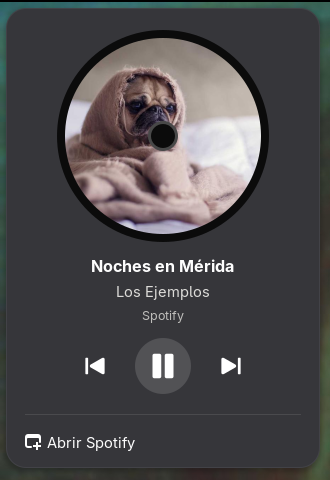
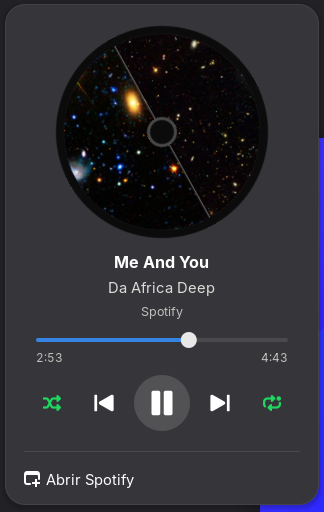
Barra para adelantar o atrasar, aleatorio y repetir
controles.js habla con el reproductor por D-Bus: posición (se pregunta cada
segundo con el menú abierto), SetPosition, Shuffle y LoopStatus.

Claude-Session: https://claude.ai/code/session_017jxsRxmBe3WPs1qnuJv5iV

diff --git a/extension/extension.js b/extension/extension.js
@@ -1,9 +1,11 @@
 // Disco: en la barra de arriba, la portada de lo que está sonando. Si es música (Spotify, YouTube
 // Music…) se ve como un disco que gira mientras suena; si es un video, como una miniatura quieta.
-// Al picarle: portada grande, canción, artista y los botones de anterior, pausa y siguiente.
+// Al picarle: portada grande, canción, artista, la barra para adelantar o atrasar y los botones de
+// aleatorio, anterior, pausa, siguiente y repetir.
 
 import Clutter from 'gi://Clutter';
 import Gio from 'gi://Gio';
+import GLib from 'gi://GLib';
 import GObject from 'gi://GObject';
 import Pango from 'gi://Pango';
 import St from 'gi://St';
@@ -12,11 +14,16 @@ import {Extension} from 'resource:///org/gnome/shell/extensions/extension.js';
 import * as Main from 'resource:///org/gnome/shell/ui/main.js';
 import * as PanelMenu from 'resource:///org/gnome/shell/ui/panelMenu.js';
 import * as PopupMenu from 'resource:///org/gnome/shell/ui/popupMenu.js';
+import {Slider} from 'resource:///org/gnome/shell/ui/slider.js';
+
+import {escribir, irA, leer, pista, SIGUIENTE_REPETIR, tiempo} from './controles.js';
 
 import {abortar, portadaLocal} from './portadas.js';
 import {describir, Reproductores} from './reproductores.js';
 
 const VUELTA = 5000; // ms por vuelta del disco
+const REVISAR_POSICION = 1000; // ms, solo con el menú abierto
+const ESPERA_SALTO = 300; // ms: al mover la barra con teclado o rueda, salta cuando dejas de moverla
 
 // Portada redonda (disco con agujero) o rectangular (video). Gira con girar(true/false).
 const Portada = GObject.registerClass(
@@ -68,8 +75,9 @@ class Portada extends St.Widget {
 });
 
 function boton(icono, nombre, clase, alPulsar) {
+    const tam = {'disco-boton-play': 28, 'disco-boton-modo': 18}[clase] ?? 22;
     const b = new St.Button({style_class: `disco-boton ${clase}`, can_focus: true, accessible_name: nombre,
-        child: new St.Icon({icon_name: icono, icon_size: clase === 'disco-boton-play' ? 28 : 22})});
+        child: new St.Icon({icon_name: icono, icon_size: tam})});
     b.connect('clicked', alPulsar);
     return b;
 }
@@ -95,13 +103,49 @@ class Indicador extends PanelMenu.Button {
         this._titulo = etiqueta('disco-titulo');
         this._artista = etiqueta('disco-artista');
         this._app = etiqueta('disco-app');
+        // Barra de la canción con el tiempo transcurrido y el total.
+        this._progreso = new St.BoxLayout({orientation: Clutter.Orientation.VERTICAL, style_class: 'disco-progreso', x_expand: true});
+        this._barra = new Slider(0);
+        this._barra.accessible_name = 'Posición de la canción';
+        const tiempos = new St.BoxLayout({x_expand: true});
+        this._transcurrido = new St.Label({style_class: 'disco-tiempo', text: '0:00'});
+        this._total = new St.Label({style_class: 'disco-tiempo', text: '0:00', x_expand: true, x_align: Clutter.ActorAlign.END});
+        tiempos.add_child(this._transcurrido);
+        tiempos.add_child(this._total);
+        this._progreso.add_child(this._barra);
+        this._progreso.add_child(tiempos);
+        this._arrastrando = false;
+        this._poniendo = false;
+        this._barra.connect('drag-begin', () => {
+            this._arrastrando = true;
+        });
+        this._barra.connect('drag-end', () => {
+            this._arrastrando = false;
+            this._saltar();
+        });
+        this._barra.connect('notify::value', () => {
+            const {largo} = this._actual ? pista(this._actual) : {largo: 0};
+            this._transcurrido.text = tiempo(this._barra.value * largo);
+            if (!this._poniendo && !this._arrastrando)
+                this._saltarLuego(); // teclado o rueda del ratón
+        });
+
         const controles = new St.BoxLayout({style_class: 'disco-controles', x_align: Clutter.ActorAlign.CENTER});
+        this._aleatorio = boton('media-playlist-shuffle-symbolic', 'Aleatorio', 'disco-boton-modo', () => {
+            if (this._actual && this._modo.aleatorio !== null)
+                escribir(this._actual, 'Shuffle', GLib.Variant.new_boolean(!this._modo.aleatorio)).then(() => this._revisar());
+        });
+        this._repetir = boton('media-playlist-repeat-symbolic', 'Repetir', 'disco-boton-modo', () => {
+            if (this._actual && this._modo.repetir)
+                escribir(this._actual, 'LoopStatus', GLib.Variant.new_string(SIGUIENTE_REPETIR[this._modo.repetir] ?? 'None')).then(() => this._revisar());
+        });
+        this._modo = {aleatorio: null, repetir: null, posicion: 0, sePuede: false};
         this._anterior = boton('media-skip-backward-symbolic', 'Anterior', 'disco-boton-chico', () => this._actual?.previous());
         this._pausa = boton('media-playback-start-symbolic', 'Reproducir o pausar', 'disco-boton-play', () => this._actual?.playPause());
         this._siguiente = boton('media-skip-forward-symbolic', 'Siguiente', 'disco-boton-chico', () => this._actual?.next());
-        for (const b of [this._anterior, this._pausa, this._siguiente])
+        for (const b of [this._aleatorio, this._anterior, this._pausa, this._siguiente, this._repetir])
             controles.add_child(b);
-        for (const a of [this._grande, this._titulo, this._artista, this._app, controles])
+        for (const a of [this._grande, this._titulo, this._artista, this._app, this._progreso, controles])
             caja.add_child(a);
         fija.add_child(caja);
         this.menu.addMenuItem(fija);
@@ -117,9 +161,19 @@ class Indicador extends PanelMenu.Button {
         this._portadaUrl = null;
         this._reproductores = new Reproductores();
         this._reproductores.connectObject('cambio', () => this._sincronizar(), this);
+        this._reloj = 0;
+        this._espera = 0;
         this.menu.connectObject('open-state-changed', (_m, abierto) => {
-            if (abierto)
+            if (abierto) {
                 this._pausa.grab_key_focus();
+                this._revisar();
+                this._reloj = GLib.timeout_add(GLib.PRIORITY_DEFAULT, REVISAR_POSICION, () => {
+                    this._revisar();
+                    return GLib.SOURCE_CONTINUE;
+                });
+            } else {
+                this._pararReloj();
+            }
         }, this);
         this._sincronizar();
     }
@@ -156,6 +210,74 @@ class Indicador extends PanelMenu.Button {
             this._ponerPortada(this._ruta, d);
         }
         this._otrosReproductores(r);
+        if (this.menu.isOpen)
+            this._revisar();
+    }
+
+    // Pregunta al reproductor posición, aleatorio y repetir (Spotify no avisa cuando cambian).
+    async _revisar() {
+        const r = this._actual;
+        if (!r)
+            return;
+        const [posicion, aleatorio, repetir, sePuede] = await Promise.all(
+            ['Position', 'Shuffle', 'LoopStatus', 'CanSeek'].map(p => leer(r, p)));
+        if (r !== this._actual || !this._barra)
+            return; // cambió de reproductor o se apagó la extensión mientras tanto
+        const {largo} = pista(r);
+        this._modo = {aleatorio: typeof aleatorio === 'boolean' ? aleatorio : null,
+            repetir: typeof repetir === 'string' ? repetir : null, posicion: Number(posicion ?? 0),
+            sePuede: sePuede !== false && largo > 0 && posicion !== null};
+
+        this._progreso.visible = largo > 0 && posicion !== null;
+        this._barra.reactive = this._barra.can_focus = this._modo.sePuede;
+        this._total.text = tiempo(largo);
+        if (!this._arrastrando && !this._espera) {
+            this._poniendo = true;
+            this._barra.value = largo > 0 ? Math.min(1, this._modo.posicion / largo) : 0;
+            this._poniendo = false;
+            this._transcurrido.text = tiempo(this._modo.posicion);
+        }
+
+        this._aleatorio.visible = this._modo.aleatorio !== null;
+        this._ponerActivo(this._aleatorio, this._modo.aleatorio);
+        this._aleatorio.accessible_name = this._modo.aleatorio ? 'Aleatorio: activado' : 'Aleatorio: desactivado';
+        this._repetir.visible = this._modo.repetir !== null;
+        this._repetir.child.icon_name = this._modo.repetir === 'Track' ? 'media-playlist-repeat-song-symbolic' : 'media-playlist-repeat-symbolic';
+        this._ponerActivo(this._repetir, this._modo.repetir && this._modo.repetir !== 'None');
+        this._repetir.accessible_name = {Playlist: 'Repetir: lista', Track: 'Repetir: esta canción'}[this._modo.repetir] ?? 'Repetir: desactivado';
+    }
+
+    _ponerActivo(b, si) {
+        if (si)
+            b.add_style_class_name('disco-activo');
+        else
+            b.remove_style_class_name('disco-activo');
+    }
+
+    _saltar() {
+        const r = this._actual;
+        if (!r || !this._modo.sePuede)
+            return;
+        const {largo} = pista(r);
+        irA(r, this._barra.value * largo, this._modo.posicion).then(() => this._revisar());
+    }
+
+    _saltarLuego() {
+        if (this._espera)
+            GLib.source_remove(this._espera);
+        this._espera = GLib.timeout_add(GLib.PRIORITY_DEFAULT, ESPERA_SALTO, () => {
+            this._espera = 0;
+            this._saltar();
+            return GLib.SOURCE_REMOVE;
+        });
+    }
+
+    _pararReloj() {
+        for (const id of [this._reloj, this._espera]) {
+            if (id)
+                GLib.source_remove(id);
+        }
+        this._reloj = this._espera = 0;
     }
 
     _ponerPortada(ruta, d) {
@@ -190,6 +312,7 @@ class Indicador extends PanelMenu.Button {
     }
 
     destroy() {
+        this._pararReloj();
         this._reproductores.disconnectObject(this);
         this._reproductores.destroy();
         abortar();

diff --git a/extension/controles.js b/extension/controles.js
@@ -1,0 +1,71 @@
+// Lo que GNOME no trae en su MprisPlayer: posición de la canción, saltar a un punto, aleatorio y
+// repetir. Habla directo con el reproductor por D-Bus (org.mpris.MediaPlayer2.Player).
+// Spotify no avisa cuando avanza la posición, así que se pregunta (solo con el menú abierto).
+
+import Gio from 'gi://Gio';
+import GLib from 'gi://GLib';
+
+const RUTA = '/org/mpris/MediaPlayer2';
+const PLAYER = 'org.mpris.MediaPlayer2.Player';
+const PROPS = 'org.freedesktop.DBus.Properties';
+
+function llamar(bus, interfaz, metodo, params, tipo = null) {
+    return new Promise((resolver, rechazar) => {
+        Gio.DBus.session.call(bus, RUTA, interfaz, metodo, params, tipo, Gio.DBusCallFlags.NONE, 2000, null,
+            (con, res) => {
+                try {
+                    resolver(con.call_finish(res));
+                } catch (e) {
+                    rechazar(e);
+                }
+            });
+    });
+}
+
+// Valor de una propiedad del reproductor, o null si no la tiene.
+export async function leer(r, prop) {
+    try {
+        const res = await llamar(r._busName, PROPS, 'Get', new GLib.Variant('(ss)', [PLAYER, prop]),
+            new GLib.VariantType('(v)'));
+        return res.deepUnpack()[0].deepUnpack();
+    } catch {
+        return null;
+    }
+}
+
+export function escribir(r, prop, variante) {
+    return llamar(r._busName, PROPS, 'Set', new GLib.Variant('(ssv)', [PLAYER, prop, variante]))
+        .catch(e => console.warn(`Disco: no pude cambiar ${prop}: ${e.message}`));
+}
+
+// Datos de la pista que no da GNOME: id (para saltar) y duración en microsegundos.
+export function pista(r) {
+    const m = r._playerProxy?.Metadata ?? {};
+    const id = m['mpris:trackid']?.deepUnpack?.() ?? null;
+    const largo = Number(m['mpris:length']?.deepUnpack?.() ?? 0);
+    return {id, largo};
+}
+
+// Saltar a «micros» desde el inicio de la pista. SetPosition necesita el id de la pista; si no es
+// una ruta D-Bus válida, se usa Seek (salto relativo) desde la posición actual.
+export async function irA(r, micros, actual) {
+    const {id} = pista(r);
+    const destino = Math.max(0, Math.round(micros));
+    if (id && GLib.Variant.is_object_path(id)) {
+        await llamar(r._busName, PLAYER, 'SetPosition', new GLib.Variant('(ox)', [id, destino]))
+            .catch(e => console.warn(`Disco: no pude adelantar: ${e.message}`));
+    } else {
+        await llamar(r._busName, PLAYER, 'Seek', new GLib.Variant('(x)', [destino - Math.round(actual)]))
+            .catch(e => console.warn(`Disco: no pude adelantar: ${e.message}`));
+    }
+}
+
+// Repetir: None → Playlist → Track → None.
+export const SIGUIENTE_REPETIR = {None: 'Playlist', Playlist: 'Track', Track: 'None'};
+
+// 83000000 µs → "1:23"
+export function tiempo(micros) {
+    const s = Math.max(0, Math.floor(micros / 1e6));
+    const h = Math.floor(s / 3600), m = Math.floor(s / 60) % 60, seg = String(s % 60).padStart(2, '0');
+    return h ? `${h}:${String(m).padStart(2, '0')}:${seg}` : `${m}:${seg}`;
+}

diff --git a/extension/stylesheet-light.css b/extension/stylesheet-light.css
@@ -23,7 +23,7 @@
 .disco-app { font-size: 0.85em; color: #c0bfbc; max-width: 288px; }
 
 /* Botones: 48 px (el de pausa 56 px), área cómoda para el clic. */
-.disco-controles { spacing: 16px; padding-top: 8px; }
+.disco-controles { spacing: 6px; padding-top: 4px; }
 .disco-boton { border-radius: 999px; color: #ffffff; }
 .disco-boton-chico { width: 48px; height: 48px; }
 .disco-boton-play { width: 56px; height: 56px; background-color: rgba(255, 255, 255, 0.14); }
@@ -31,6 +31,15 @@
 .disco-boton:active { background-color: rgba(255, 255, 255, 0.26); }
 .disco-boton:focus { box-shadow: inset 0 0 0 2px #78aeed; }
 .disco-boton:insensitive { color: rgba(255, 255, 255, 0.3); }
+
+
+/* Barra de la canción y tiempos. */
+.disco-progreso { spacing: 2px; padding: 6px 8px 0 8px; }
+.disco-tiempo { font-size: 0.8em; font-feature-settings: "tnum"; color: #c0bfbc; }
+
+/* Aleatorio y repetir: 44 px, atenuados si están apagados, con punto de color si están prendidos. */
+.disco-boton-modo { width: 44px; height: 44px; color: rgba(255, 255, 255, 0.6); }
+.disco-boton-modo.disco-activo { color: #1ed760; }
 
 
 .disco-titulo { color: #1e1e1e; }
@@ -42,3 +51,6 @@
 .disco-boton:active { background-color: rgba(0, 0, 0, 0.18); }
 .disco-boton:insensitive { color: rgba(0, 0, 0, 0.3); }
 .disco-portada.disco-video { box-shadow: 0 6px 18px rgba(0, 0, 0, 0.25); }
+.disco-tiempo { color: #5e5c64; }
+.disco-boton-modo { color: rgba(0, 0, 0, 0.55); }
+.disco-boton-modo.disco-activo { color: #1a8f45; }

diff --git a/extension/stylesheet.css b/extension/stylesheet.css
@@ -23,7 +23,7 @@
 .disco-app { font-size: 0.85em; color: #c0bfbc; max-width: 288px; }
 
 /* Botones: 48 px (el de pausa 56 px), área cómoda para el clic. */
-.disco-controles { spacing: 16px; padding-top: 8px; }
+.disco-controles { spacing: 6px; padding-top: 4px; }
 .disco-boton { border-radius: 999px; color: #ffffff; }
 .disco-boton-chico { width: 48px; height: 48px; }
 .disco-boton-play { width: 56px; height: 56px; background-color: rgba(255, 255, 255, 0.14); }
@@ -31,3 +31,11 @@
 .disco-boton:active { background-color: rgba(255, 255, 255, 0.26); }
 .disco-boton:focus { box-shadow: inset 0 0 0 2px #78aeed; }
 .disco-boton:insensitive { color: rgba(255, 255, 255, 0.3); }
+
+/* Barra de la canción y tiempos. */
+.disco-progreso { spacing: 2px; padding: 6px 8px 0 8px; }
+.disco-tiempo { font-size: 0.8em; font-feature-settings: "tnum"; color: #c0bfbc; }
+
+/* Aleatorio y repetir: 44 px, atenuados si están apagados, con punto de color si están prendidos. */
+.disco-boton-modo { width: 44px; height: 44px; color: rgba(255, 255, 255, 0.6); }
+.disco-boton-modo.disco-activo { color: #1ed760; }

diff --git a/README.md b/README.md
@@ -14,7 +14,11 @@ Extensión de GNOME que pone en la barra de arriba la portada de lo que está so
   disco de vinil y **gira mientras suena**. En pausa se detiene.
 - **Videos** (YouTube, Netflix, cualquier video en Brave o Firefox): la portada se ve como una
   miniatura quieta.
-- **Al picarle:** portada grande, canción, artista y los botones de **anterior, pausa y siguiente**.
+- **Al picarle:** portada grande, canción, artista, una **barra para adelantar o atrasar** (arrastrándola,
+  con clic, con la rueda del ratón o con las flechas del teclado) con el tiempo que va y el total, y
+  los botones de **aleatorio, anterior, pausa, siguiente y repetir** (repetir cambia entre apagado,
+  toda la lista y solo esta canción). Aleatorio y repetir se ponen verdes cuando están prendidos y
+  solo salen si el reproductor los permite (Spotify sí).
   Si suenan varias cosas (Spotify y un video), abajo sale **También suena** para cambiar cuál
   mostrar. **Abrir…** te lleva a la app.
 - Cuando no suena nada, el ícono desaparece.
@@ -41,6 +45,7 @@ Cierra sesión y vuelve a entrar. Funciona en GNOME 48 a 51. `./install.sh --qui
 | `extension.js` | El ícono de la barra (disco que gira o miniatura) y el menú con los controles |
 | `reproductores.js` | Lista de reproductores, cuál mostrar y si es música o video |
 | `portadas.js` | Baja o copia la portada a `~/.cache/disco` |
+| `controles.js` | Posición, saltar a un punto, aleatorio y repetir, directo por D-Bus. Spotify no avisa cuando avanza la canción, así que se pregunta cada segundo, solo con el menú abierto |
 
 ## Licencia
 MIT.
